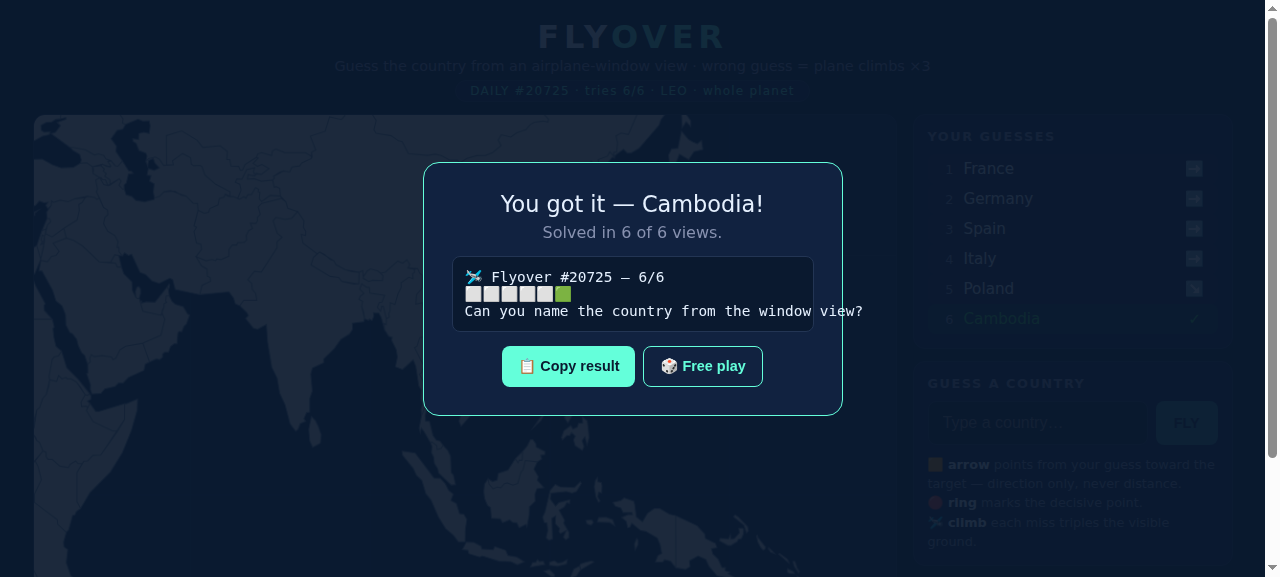
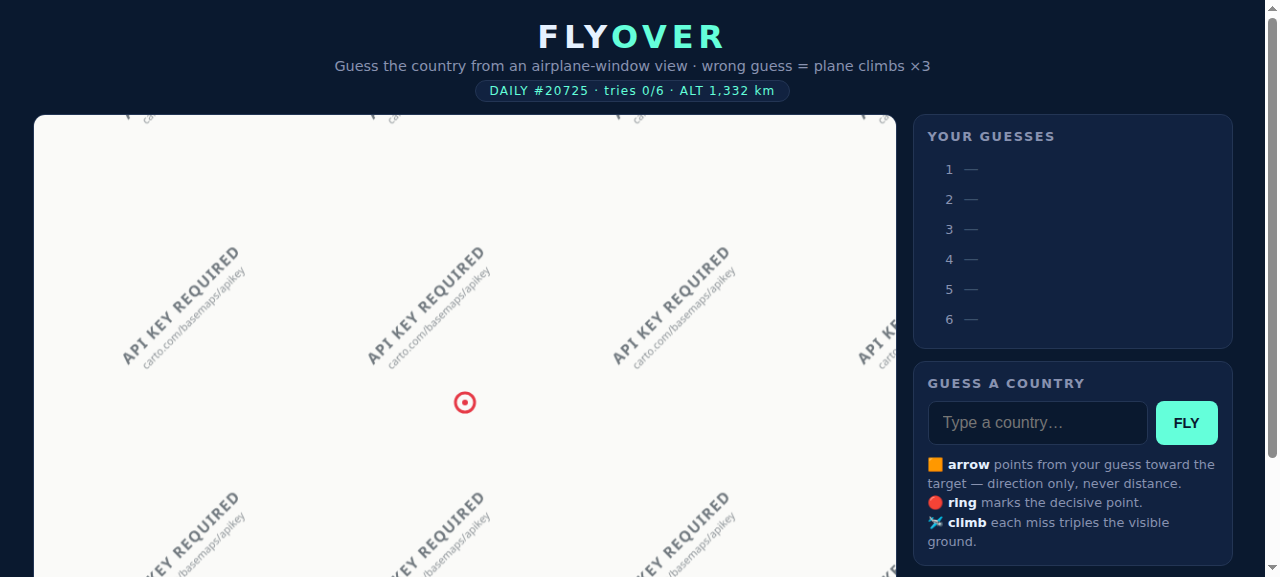
feat: OpenStreetMap tile basemap + gentler zoom ladder
- Replace flat vector rendering with real OSM raster tiles (CARTO
  no-labels style): coastlines, rivers, terrain, roads, urban detail
  for country identification; labels stripped to keep it a game
- Web Mercator projection, 256px tile cache, view culling
- Vector Natural Earth layer kept as offline fallback
- New zoom ladder: 12/36/100/220/320/360 deg — first two rounds much
  less claustrophobic (12 deg start vs 4 deg before)
- OSM/CARTO attribution drawn on canvas (license requirement)

diff --git a/game.js b/game.js
@@ -60,13 +60,27 @@ const project = (lon, lat) => [(lon + 180) * (W / 360), (90 - lat) * (H / 180)];
 
 const target = NAME2META[TARGET_NAME];
 let targetName = TARGET_NAME;
-let view = { lon: target.lon, lat: target.lat, span: 4 };  // span = degrees of longitude visible
-const MAX_SPAN = 360, ZOOM_FACTOR = 3;
+let view = { lon: target.lon, lat: target.lat };
 
-// altitude flavor: km of ground visible across the window (at equator: span° × 111 km)
+// zoom ladder: degrees of longitude visible per view (much wider start than v1)
+const SPANS = [12, 36, 100, 220, 320, 360];
+
+function currentSpan() {
+  const misses = state.guesses.filter(g => !g.correct).length;
+  return SPANS[Math.min(misses, SPANS.length - 1)];
+}
+
+// altitude flavor: km of ground across the window (equator: span° × 111 km)
 function altitudeLabel() {
-  const km = Math.round(view.span * 111);
-  return km >= 9999 ? 'LEO · whole planet' : `ALT ${km.toLocaleString()} km`;
+  const km = Math.round(currentSpan() * 111);
+  return km >= 36000 ? 'LEO · whole planet' : `ALT ${km.toLocaleString()} km`;
+}
+
+// Web Mercator helpers (OSM tile space)
+function lon2x(lon, ws) { return (lon + 180) / 360 * ws; }
+function lat2y(lat, ws) {
+  const s = Math.max(-0.9999, Math.min(0.9999, Math.sin(lat * Math.PI / 180)));
+  return (0.5 - Math.log((1 + s) / (1 - s)) / (4 * Math.PI)) * ws;
 }
 
 // ---------- canvas ----------
@@ -78,85 +92,100 @@ function drawGeom(g, path) {
   else for (const poly of g.coordinates) path(poly[0]);
 }
 
-function render() {
-  const scale = W / view.span;
-  const [px, py] = project(view.lon, view.lat);
-  const ox = W / 2 - px * scale, oy = H / 2 - py * scale;
-  const S = p => [ox + p[0] * scale, oy + p[1] * scale];  // projected point -> screen
+// ---------- tile layer (OpenStreetMap data, no-label basemap so it stays a game) ----------
+// Swap to 'https://tile.openstreetmap.org/${z}/${x}/${y}.png' for labeled standard OSM.
+const TILE_URL = (z, x, y) => `https://a.basemaps.cartocdn.com/rastertiles/voyager_nolabels/${z}/${x}/${y}.png`;
+const tileCache = new Map();
+let pending = 0;
 
-  ctx.setTransform(1, 0, 0, 1, 0, 0);
-  ctx.fillStyle = '#0e2a47';
-  ctx.fillRect(0, 0, W, H);
-
-  // view culling: which slice of the map is visible (in projected px)
-  const vx0 = (0 - ox) / scale, vx1 = (W - ox) / scale;
-  const vy0 = (0 - oy) / scale, vy1 = (H - oy) / scale;
-  const visible = c => {
-    // cheap bbox test on first ring
-    const rings = c.g.type === 'Polygon' ? [c.g.coordinates[0]] : c.g.coordinates.map(p => p[0]);
-    for (const r of rings) {
-      let x0 = 1e9, x1 = -1e9, y0 = 1e9, y1 = -1e9;
-      for (const p of r) {
-        const x = (p[0] + 180) * (W / 360), y = (90 - p[1]) * (H / 180);
-        if (x < x0) x0 = x; if (x > x1) x1 = x;
-        if (y < y0) y0 = y; if (y > y1) y1 = y;
-      }
-      if (x1 >= vx0 && x0 <= vx1 && y1 >= vy0 && y0 <= vy1) return true;
-    }
-    return false;
-  };
-
-  // land
-  ctx.beginPath();
-  for (const c of DATA) {
-    if (!visible(c)) continue;
-    drawGeom(c.g, ring => {
-      let [sx, sy] = S(project(ring[0][0], ring[0][1]));
-      ctx.moveTo(sx, sy);
-      for (let i = 1; i < ring.length; i++) {
-        [sx, sy] = S(project(ring[i][0], ring[i][1]));
-        ctx.lineTo(sx, sy);
-      }
-      ctx.closePath();
-    });
+function getTile(z, x, y) {
+  const key = `${z}/${x}/${y}`;
+  let t = tileCache.get(key);
+  if (!t) {
+    const img = new Image();
+    pending++;
+    img.onload = () => { pending--; requestAnimationFrame(render); };
+    img.onerror = () => { pending--; };
+    img.src = TILE_URL(z, ((x % (2 ** z)) + 2 ** z) % (2 ** z), y);
+    t = img;
+    tileCache.set(key, t);
   }
-  ctx.fillStyle = '#ece7d4';
+  return t;
+}
+
+function drawVectorLand(ws, ox, oy) {  // fallback if tiles are blocked (offline)
+  ctx.setTransform(1, 0, 0, 1, 0, 0);
+  ctx.fillStyle = '#aad3df';
+  ctx.fillRect(0, 0, W, H);
+  ctx.beginPath();
+  for (const c of DATA) drawGeom(c.g, ring => {
+    const [sx, sy] = [ox + lon2x(ring[0][0], ws), oy + lat2y(ring[0][1], ws)];
+    ctx.moveTo(sx, sy);
+    for (let i = 1; i < ring.length; i++)
+      ctx.lineTo(ox + lon2x(ring[i][0], ws), oy + lat2y(ring[i][1], ws));
+    ctx.closePath();
+  });
+  ctx.fillStyle = '#f2efe9';
   ctx.fill();
   ctx.strokeStyle = 'rgba(120,130,145,.9)';
   ctx.lineWidth = 1.1;
   ctx.stroke();
+}
 
-  // graticule (subtle)
-  ctx.beginPath();
-  for (let lon = -180; lon <= 180; lon += 30) { const [a, b] = S(project(lon, 85)), [c2, d] = S(project(lon, -85)); ctx.moveTo(a, b); ctx.lineTo(c2, d); }
-  for (let lat = -60; lat <= 80; lat += 30) { const [a, b] = S(project(-180, lat)), [c2, d] = S(project(180, lat)); ctx.moveTo(a, b); ctx.lineTo(c2, d); }
-  ctx.strokeStyle = 'rgba(255,255,255,.05)';
-  ctx.stroke();
+function render() {
+  const span = currentSpan();
+  // pick tile zoom so the span fills the canvas
+  const idealWorldPx = W * 360 / span;
+  const z = Math.max(2, Math.min(18, Math.round(Math.log2(idealWorldPx / 256))));
+  const ws = 256 * 2 ** z;
+  const ox = W / 2 - lon2x(view.lon, ws);
+  const oy = H / 2 - lat2y(view.lat, ws);
 
-  ctx.setTransform(1, 0, 0, 1, 0, 0);
+  drawVectorLand(ws, ox, oy);
+
+  // OSM tiles
+  const x0 = Math.floor((0 - ox) / 256), x1 = Math.floor((W - ox) / 256);
+  const y0 = Math.max(0, Math.floor((0 - oy) / 256)), y1 = Math.min(2 ** z - 1, Math.floor((H - oy) / 256));
+  ctx.save();
+  ctx.beginPath(); ctx.rect(0, 0, W, H); ctx.clip();
+  for (let tx = x0; tx <= x1; tx++) {
+    for (let ty = y0; ty <= y1; ty++) {
+      const img = getTile(z, tx, ty);
+      if (img.complete && img.naturalWidth) ctx.drawImage(img, ox + tx * 256, oy + ty * 256);
+    }
+  }
+  ctx.restore();
 
   // center ring marking the decisive point
-  const [rx, ry] = S(project(target.lon, target.lat));
-  const sx = rx, sy = ry;
-  ctx.beginPath(); ctx.arc(sx, sy, 9, 0, 7);
-  ctx.strokeStyle = '#e63946'; ctx.lineWidth = 2.5; ctx.stroke();
-  ctx.beginPath(); ctx.arc(sx, sy, 2.5, 0, 7);
+  const sx = ox + lon2x(target.lon, ws), sy = oy + lat2y(target.lat, ws);
+  ctx.beginPath(); ctx.arc(sx, sy, 10, 0, 7);
+  ctx.strokeStyle = '#e63946'; ctx.lineWidth = 3; ctx.stroke();
+  ctx.beginPath(); ctx.arc(sx, sy, 3, 0, 7);
   ctx.fillStyle = '#e63946'; ctx.fill();
 
   // guess arrows
   for (const g of state.guesses) {
     if (g.correct) continue;
     const m = NAME2META[g.name];
-    const [gx0, gy0] = project(m.lon, m.lat);
-    const ax = ox + gx0 * scale, ay = oy + gy0 * scale;
+    const ax = ox + lon2x(m.lon, ws), ay = oy + lat2y(m.lat, ws);
     if (ax < -40 || ax > W + 40 || ay < -40 || ay > H + 40) continue;
     const ang = Math.atan2(sy - ay, sx - ax);
     ctx.save();
     ctx.translate(ax, ay); ctx.rotate(ang);
-    ctx.beginPath(); ctx.moveTo(14, 0); ctx.lineTo(-6, -8); ctx.lineTo(-2, 0); ctx.lineTo(-6, 8); ctx.closePath();
-    ctx.fillStyle = '#ffb703'; ctx.fill();
+    ctx.beginPath(); ctx.moveTo(15, 0); ctx.lineTo(-7, -9); ctx.lineTo(-2, 0); ctx.lineTo(-7, 9); ctx.closePath();
+    ctx.fillStyle = '#ff8800'; ctx.strokeStyle = '#fff'; ctx.lineWidth = 1.5; ctx.fill(); ctx.stroke();
     ctx.restore();
   }
+
+  // attribution (required for OSM data)
+  ctx.font = '11px system-ui, sans-serif';
+  ctx.textAlign = 'right';
+  ctx.fillStyle = 'rgba(255,255,255,.85)';
+  ctx.strokeStyle = 'rgba(0,0,0,.45)'; ctx.lineWidth = 2.5;
+  const attr = '© OpenStreetMap contributors © CARTO';
+  ctx.strokeText(attr, W - 8, H - 8);
+  ctx.fillText(attr, W - 8, H - 8);
+  ctx.textAlign = 'left';
 }
 
 // ---------- game state ----------
@@ -227,10 +256,6 @@ function submit(raw) {
 
   if (correct) { state.done = true; state.won = true; }
   else if (state.guesses.length >= MAX_TRIES) { state.done = true; }
-  else {
-    view.span = Math.min(MAX_SPAN, view.span * ZOOM_FACTOR);
-    // recentre on target but keep aspect: latitude span limited by H
-  }
   save(); syncUI(); render();
   if (state.done) showEnd();
 }
@@ -304,7 +329,7 @@ function startFree() {
   const nm = pool[Math.floor(Math.random() * pool.length)];
   targetName = nm;
   Object.assign(target, NAME2META[nm]);   // keep same object reference used by render/bearing
-  view = { lon: target.lon, lat: target.lat, span: 4 };
+  view = { lon: target.lon, lat: target.lat };
   state.guesses = []; state.done = false; state.won = false;
   document.getElementById('mode').textContent = 'FREE PLAY';
   syncUI(); render();

diff --git a/README.md b/README.md
@@ -11,7 +11,7 @@ Inspired by [FlightQ's Flyover](https://flightq.app/flyover) — rebuilt from sc
 2. You see an **unlabeled map patch** — coastlines, rivers, borders only. The red ring marks the decisive point.
 3. Type a country and hit **FLY**. Aliases work: `USA`, `UK`, `Burma`, `Czechia`, `Holland`…
 4. Every miss:
-   - the plane **climbs ×3** — each view triples the visible ground (444 km → whole planet on guess 6)
+   - the plane **climbs** — each view shows much more ground (12° → 36° → 100° → 220° → 320° → whole planet)
    - a **compass arrow** appears pointing from your guess toward the target — direction only, never distance
 5. You have **6 views**. Solved faster = better.
 
@@ -33,10 +33,12 @@ Inspired by [FlightQ's Flyover](https://flightq.app/flyover) — rebuilt from sc
 | | |
 |---|---|
 | Stack | Vanilla HTML/CSS/JS, single page, zero dependencies |
-| Geometry | Natural Earth country polygons (178 countries), Douglas-Peucker simplified to ~120 KB |
+| Geometry | Natural Earth country polygons (178 countries), Douglas-Peucker simplified to ~120 KB — used as offline fallback layer |
+| Basemap | **OpenStreetMap raster tiles** (CARTO no-labels style) — full detail: coastline, rivers, terrain, roads, urban areas. Labels stripped so it stays a game |
 | Daily pick | `hash(UTC day) % pool` — same worldwide, no backend |
 | Pool | 138 playable countries (real landmasses only — no micro-island lotteries) |
-| Renderer | Canvas 2D equirectangular with view culling |
+| Renderer | Canvas 2D, Web Mercator, 256 px tiles with caching + view culling |
+| Zoom ladder | 12° → 36° → 100° → 220° → 320° → 360° of longitude per view |
 
 ## Run
 
